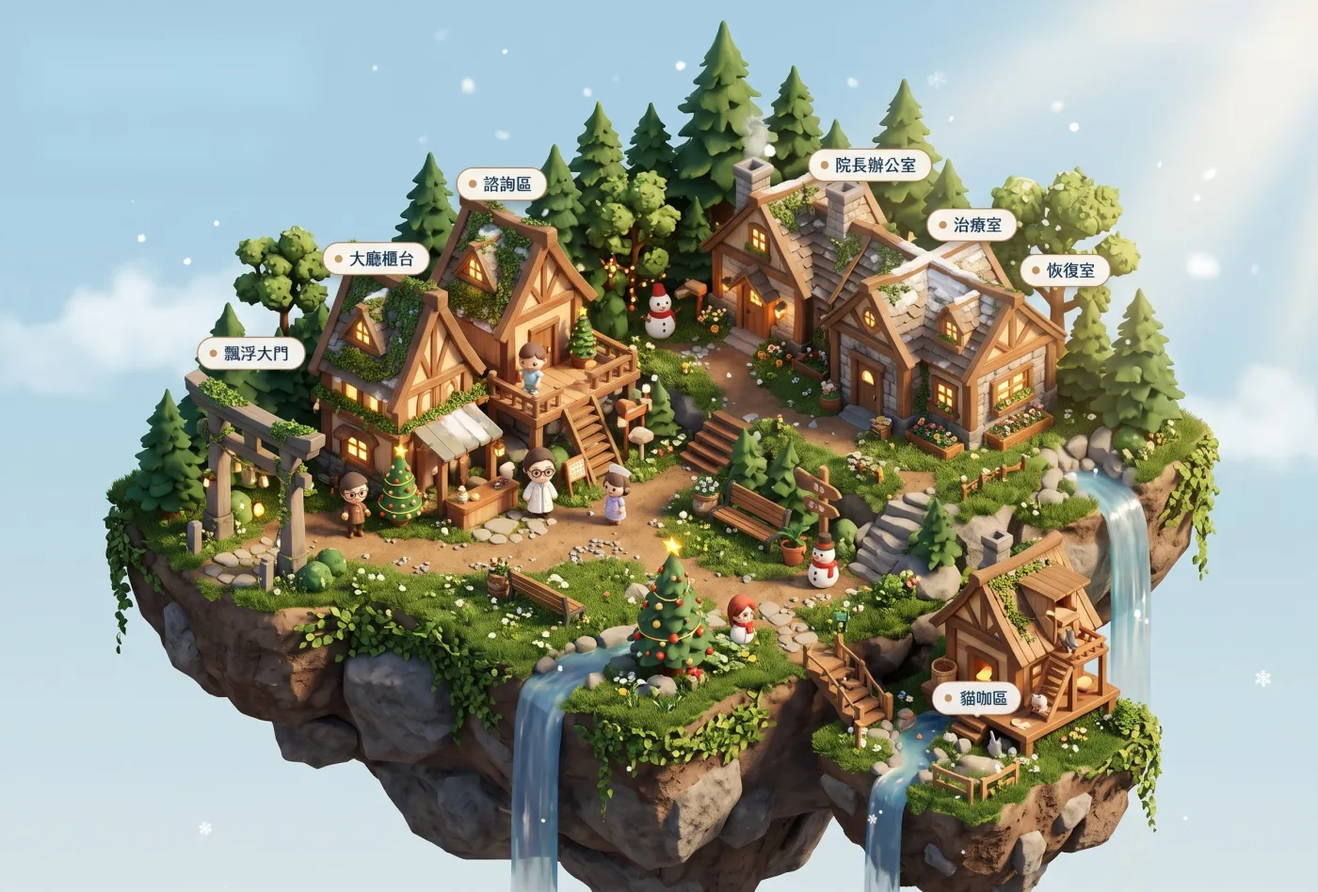
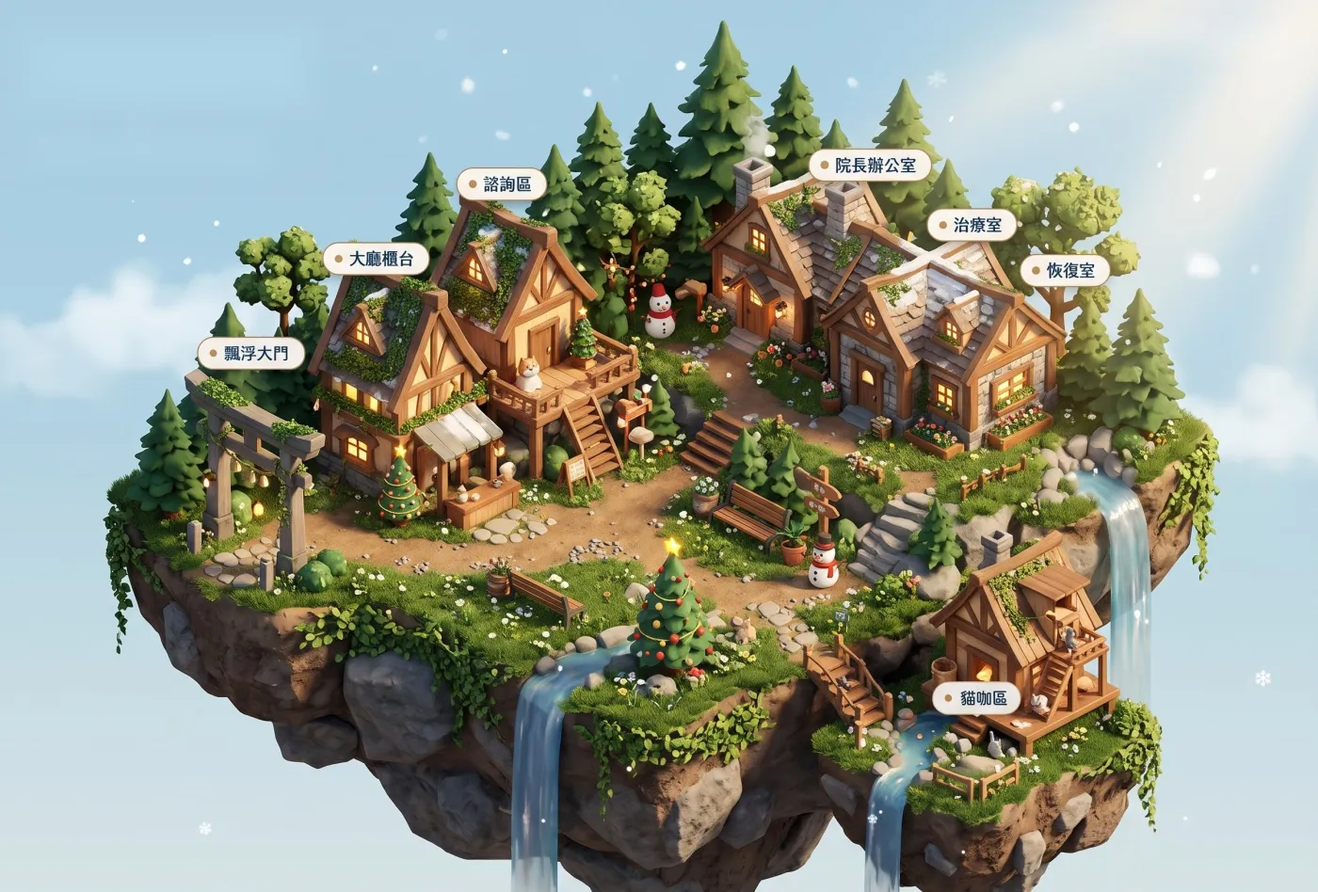
Forest island: people-free base image, walking islanders
Claude-Session: https://claude.ai/code/session_01JBjZjVyCLTEV66G3vMSPRi

diff --git a/public/island/forest/index.html b/public/island/forest/index.html
@@ -121,13 +121,13 @@ nav.chips.houses button{font-size:14px;padding:8px 14px}
 @media (prefers-reduced-motion:reduce){}
 </style></head><body>
 <header><a class="back" href="/island/">← 主島</a><button type="button" class="music" id="music" aria-pressed="false">♪ 森林音樂</button><div><h1>無痕美學島・森林版</h1><p class="sub">點小屋看看：IG、FB、衛教文章、咖啡屋和小測驗<br>安和路一段86號2樓・預約制</p></div></header>
-<div class="scroller" id="sc"><div class="stage"><img src="forest.webp" srcset="forest-1400.webp 1400w, forest.webp 2400w" sizes="(max-width:760px) 140vh, 1240px" alt="無痕美學島森林版插畫：漂浮在空中的森林小島，有木造小屋、瀑布和聖誕樹" width="2400" height="1626"><button type="button" class="hs tag cover" data-house="ig" style="left:28.50%;top:28.97%;min-width:8.40%;min-height:3.76%"><i></i>IG 小屋</button><button type="button" class="hs tag cover" data-house="fb" style="left:38.12%;top:20.48%;min-width:7.15%;min-height:3.76%"><i></i>FB 小屋</button><button type="button" class="hs tag" data-house="blog" style="left:57.50%;top:47.23%"><i></i>森林書屋</button><button type="button" class="hs tag cover" data-house="gate" style="left:19.00%;top:39.67%;min-width:8.40%;min-height:3.76%"><i></i>森林入口</button><button type="button" class="hs tag cover" data-house="coffee" style="left:66.00%;top:18.63%;min-width:10.20%;min-height:3.76%"><i></i>杜克勞咖啡屋</button><button type="button" class="hs tag cover" data-house="sun" style="left:73.75%;top:25.28%;min-width:7.40%;min-height:3.76%"><i></i>防曬花園</button><button type="button" class="hs tag cover" data-house="rest" style="left:80.75%;top:30.44%;min-width:7.90%;min-height:3.76%"><i></i>林間休息屋</button><button type="button" class="hs tag cover" data-house="animal" style="left:74.12%;top:78.41%;min-width:7.15%;min-height:3.76%"><i></i>狗狗小屋</button><button type="button" class="hs tag" data-house="water" style="left:43.50%;top:74.54%"><i></i>補水小站</button><button type="button" class="hs tag" data-house="quiz" style="left:50.00%;top:33.95%"><i></i>樹屋測驗</button><button type="button" class="npc" data-npc="laoxiang" aria-label="和木屋管家・老橡說說話" style="left:26.50%;top:55.50%"></button><button type="button" class="npc" data-npc="xiaosong" aria-label="和愛爬樹的小松說說話" style="left:40.25%;top:40.44%"></button><button type="button" class="npc" data-npc="ashan" aria-label="和樹醫生・阿杉說說話" style="left:40.75%;top:53.28%"></button><button type="button" class="npc" data-npc="lulu" aria-label="和照顧狗狗的露露說說話" style="left:46.75%;top:56.09%"></button><button type="button" class="npc" data-npc="meimei" aria-label="和愛堆雪人的莓莓說說話" style="left:56.25%;top:69.00%"></button><svg class="fx" viewBox="0 0 2400 1626" preserveAspectRatio="none" aria-hidden="true"><defs><clipPath id="cfl"><polygon points="960,1215 1095,1188 1062,1232 1022,1300 1024,1626 930,1626 936,1300"/></clipPath><clipPath id="cfr"><polygon points="1958,862 2062,852 2096,930 2098,1292 2020,1292 2017,960 1988,902"/></clipPath><clipPath id="cfs"><polygon points="1662,1298 1692,1310 1642,1420 1642,1626 1570,1626 1580,1440 1622,1358"/></clipPath><radialGradient id="mist"><stop offset="0" stop-color="#fff" stop-opacity=".75"/><stop offset="1" stop-color="#fff" stop-opacity="0"/></radialGradient></defs><g clip-path="url(#cfl)"><line class="st" x1="934" y1="1128" x2="934" y2="1626" stroke="#fff" stroke-opacity="0.24" stroke-width="2" stroke-dasharray="68 100" style="animation-duration:1.7s;animation-delay:-1.09s"/><line class="st" x1="942" y1="1128" x2="942" y2="1626" stroke="#fff" stroke-opacity="0.18" stroke-width="1" stroke-dasharray="42 100" style="animation-duration:1.4s;animation-delay:-0.52s"/><line class="st" x1="956" y1="1128" x2="956" y2="1626" stroke="#fff" stroke-opacity="0.18" stroke-width="5" stroke-dasharray="70 59" style="animation-duration:1.7s;animation-delay:-1.72s"/><line class="st" x1="969" y1="1128" x2="969" y2="1626" stroke="#fff" stroke-opacity="0.18" stroke-width="1" stroke-dasharray="67 45" style="animation-duration:1.7s;animation-delay:-1.55s"/><line class="st" x1="980" y1="1128" x2="980" y2="1626" stroke="#fff" stroke-opacity="0.30" stroke-width="1" stroke-dasharray="57 90" style="animation-duration:1.4s;animation-delay:-0.95s"/><line class="st" x1="994" y1="1128" x2="994" y2="1626" stroke="#fff" stroke-opacity="0.18" stroke-width="2" stroke-dasharray="61 67" style="animation-duration:1.4s;animation-delay:-0.19s"/><line class="st" x1="1005" y1="1128" x2="1005" y2="1626" stroke="#fff" stroke-opacity="0.30" stroke-width="5" stroke-dasharray="62 89" style="animation-duration:1.7s;animation-delay:-1.71s"/><line class="st" x1="1017" y1="1128" x2="1017" y2="1626" stroke="#fff" stroke-opacity="0.24" stroke-width="5" stroke-dasharray="31 75" style="animation-duration:1.7s;animation-delay:-0.46s"/><line class="st" x1="1026" y1="1128" x2="1026" y2="1626" stroke="#fff" stroke-opacity="0.13" stroke-width="3" stroke-dasharray="43 74" style="animation-duration:1.7s;animation-delay:-1.81s"/><line class="st" x1="1037" y1="1128" x2="1037" y2="1626" stroke="#fff" stroke-opacity="0.30" stroke-width="1" stroke-dasharray="35 84" style="animation-duration:1.1s;animation-delay:-0.96s"/><line class="st" x1="1045" y1="1128" x2="1045" y2="1626" stroke="#fff" stroke-opacity="0.30" stroke-width="5" stroke-dasharray="56 55" style="animation-duration:1.1s;animation-delay:-0.04s"/><line class="st" x1="1052" y1="1128" x2="1052" y2="1626" stroke="#fff" stroke-opacity="0.24" stroke-width="1" stroke-dasharray="65 75" style="animation-duration:1.4s;animation-delay:-1.44s"/><line class="st" x1="1062" y1="1128" x2="1062" y2="1626" stroke="#fff" stroke-opacity="0.13" stroke-width="1" stroke-dasharray="68 108" style="animation-duration:1.4s;animation-delay:-0.01s"/><line class="st" x1="1069" y1="1128" x2="1069" y2="1626" stroke="#fff" stroke-opacity="0.24" stroke-width="2" stroke-dasharray="39 45" style="animation-duration:1.4s;animation-delay:-0.58s"/><line class="st" x1="1081" y1="1128" x2="1081" y2="1626" stroke="#fff" stroke-opacity="0.30" stroke-width="3" stroke-dasharray="54 98" style="animation-duration:1.4s;animation-delay:-1.92s"/><line class="st" x1="1094" y1="1128" x2="1094" y2="1626" stroke="#fff" stroke-opacity="0.24" stroke-width="1" stroke-dasharray="57 70" style="animation-duration:1.7s;animation-delay:-1.95s"/></g><g clip-path="url(#cfr)"><line class="st" x1="1962" y1="792" x2="1962" y2="1292" stroke="#fff" stroke-opacity="0.24" stroke-width="5" stroke-dasharray="30 93" style="animation-duration:1.4s;animation-delay:-1.04s"/><line class="st" x1="1974" y1="792" x2="1974" y2="1292" stroke="#fff" stroke-opacity="0.18" stroke-width="1" stroke-dasharray="33 82" style="animation-duration:1.4s;animation-delay:-1.23s"/><line class="st" x1="1988" y1="792" x2="1988" y2="1292" stroke="#fff" stroke-opacity="0.24" stroke-width="3" stroke-dasharray="61 42" style="animation-duration:1.7s;animation-delay:-1.83s"/><line class="st" x1="1995" y1="792" x2="1995" y2="1292" stroke="#fff" stroke-opacity="0.30" stroke-width="1" stroke-dasharray="49 80" style="animation-duration:1.4s;animation-delay:-0.50s"/><line class="st" x1="2004" y1="792" x2="2004" y2="1292" stroke="#fff" stroke-opacity="0.24" stroke-width="3" stroke-dasharray="68 73" style="animation-duration:1.1s;animation-delay:-0.63s"/><line class="st" x1="2015" y1="792" x2="2015" y2="1292" stroke="#fff" stroke-opacity="0.13" stroke-width="5" stroke-dasharray="66 56" style="animation-duration:1.1s;animation-delay:-1.54s"/><line class="st" x1="2026" y1="792" x2="2026" y2="1292" stroke="#fff" stroke-opacity="0.18" stroke-width="2" stroke-dasharray="50 63" style="animation-duration:1.7s;animation-delay:-1.61s"/><line class="st" x1="2039" y1="792" x2="2039" y2="1292" stroke="#fff" stroke-opacity="0.24" stroke-width="1" stroke-dasharray="44 96" style="animation-duration:1.1s;animation-delay:-1.20s"/><line class="st" x1="2048" y1="792" x2="2048" y2="1292" stroke="#fff" stroke-opacity="0.18" stroke-width="1" stroke-dasharray="66 97" style="animation-duration:1.4s;animation-delay:-1.48s"/><line class="st" x1="2059" y1="792" x2="2059" y2="1292" stroke="#fff" stroke-opacity="0.18" stroke-width="2" stroke-dasharray="50 63" style="animation-duration:1.1s;animation-delay:-0.07s"/><line class="st" x1="2070" y1="792" x2="2070" y2="1292" stroke="#fff" stroke-opacity="0.24" stroke-width="3" stroke-dasharray="67 56" style="animation-duration:1.7s;animation-delay:-0.17s"/><line class="st" x1="2083" y1="792" x2="2083" y2="1292" stroke="#fff" stroke-opacity="0.24" stroke-width="3" stroke-dasharray="59 84" style="animation-duration:1.7s;animation-delay:-1.59s"/><line class="st" x1="2096" y1="792" x2="2096" y2="1292" stroke="#fff" stroke-opacity="0.13" stroke-width="3" stroke-dasharray="56 59" style="animation-duration:1.4s;animation-delay:-1.14s"/></g><g clip-path="url(#cfs)"><line class="st" x1="1574" y1="1238" x2="1574" y2="1626" stroke="#fff" stroke-opacity="0.30" stroke-width="1" stroke-dasharray="65 68" style="animation-duration:1.4s;animation-delay:-1.89s"/><line class="st" x1="1581" y1="1238" x2="1581" y2="1626" stroke="#fff" stroke-opacity="0.24" stroke-width="5" stroke-dasharray="64 83" style="animation-duration:1.7s;animation-delay:-1.50s"/><line class="st" x1="1591" y1="1238" x2="1591" y2="1626" stroke="#fff" stroke-opacity="0.13" stroke-width="1" stroke-dasharray="45 45" style="animation-duration:1.7s;animation-delay:-1.94s"/><line class="st" x1="1598" y1="1238" x2="1598" y2="1626" stroke="#fff" stroke-opacity="0.13" stroke-width="2" stroke-dasharray="60 55" style="animation-duration:1.4s;animation-delay:-1.15s"/><line class="st" x1="1607" y1="1238" x2="1607" y2="1626" stroke="#fff" stroke-opacity="0.30" stroke-width="3" stroke-dasharray="33 54" style="animation-duration:1.1s;animation-delay:-1.33s"/><line class="st" x1="1619" y1="1238" x2="1619" y2="1626" stroke="#fff" stroke-opacity="0.30" stroke-width="2" stroke-dasharray="33 85" style="animation-duration:1.4s;animation-delay:-1.94s"/><line class="st" x1="1629" y1="1238" x2="1629" y2="1626" stroke="#fff" stroke-opacity="0.13" stroke-width="2" stroke-dasharray="40 70" style="animation-duration:1.1s;animation-delay:-1.07s"/><line class="st" x1="1640" y1="1238" x2="1640" y2="1626" stroke="#fff" stroke-opacity="0.30" stroke-width="2" stroke-dasharray="33 74" style="animation-duration:1.1s;animation-delay:-0.98s"/><line class="st" x1="1650" y1="1238" x2="1650" y2="1626" stroke="#fff" stroke-opacity="0.30" stroke-width="3" stroke-dasharray="33 100" style="animation-duration:1.7s;animation-delay:-1.05s"/><line class="st" x1="1662" y1="1238" x2="1662" y2="1626" stroke="#fff" stroke-opacity="0.13" stroke-width="1" stroke-dasharray="37 46" style="animation-duration:1.1s;animation-delay:-1.55s"/><line class="st" x1="1670" y1="1238" x2="1670" y2="1626" stroke="#fff" stroke-opacity="0.13" stroke-width="5" stroke-dasharray="62 104" style="animation-duration:1.1s;animation-delay:-1.71s"/><line class="st" x1="1684" y1="1238" x2="1684" y2="1626" stroke="#fff" stroke-opacity="0.24" stroke-width="3" stroke-dasharray="54 89" style="animation-duration:1.1s;animation-delay:-0.63s"/></g><ellipse class="mist" cx="2058" cy="1296" rx="70" ry="22" fill="url(#mist)"/><ellipse class="mist" cx="1078" cy="1212" rx="46" ry="14" fill="url(#mist)" style="animation-delay:-1s"/><ellipse class="mist" cx="2008" cy="872" rx="44" ry="12" fill="url(#mist)" style="animation-delay:-.6s"/><g><g><g class="bfly"><g class="wl"><path d="M0,0 C-6,-14 -22,-16 -20,-4 C-19,4 -8,4 0,0Z" fill="#FFE48A" stroke="#F2B84B" stroke-width=".6" stroke-opacity=".7"/><path d="M0,1 C-5,8 -15,14 -14,6 C-13,2 -6,1 0,1Z" fill="#FFE48A" stroke="#F2B84B" stroke-width=".6" stroke-opacity=".7"/></g><g class="wr"><path d="M0,0 C6,-14 22,-16 20,-4 C19,4 8,4 0,0Z" fill="#FFE48A" stroke="#F2B84B" stroke-width=".6" stroke-opacity=".7"/><path d="M0,1 C5,8 15,14 14,6 C13,2 6,1 0,1Z" fill="#FFE48A" stroke="#F2B84B" stroke-width=".6" stroke-opacity=".7"/></g><ellipse rx="1.8" ry="7" fill="#5B4636"/></g></g><animateMotion dur="14s" repeatCount="indefinite" path="M560,1000 C700,860 900,960 1000,860 S1250,820 1180,980 S760,1120 560,1000Z" begin="-0.0s"/></g><g><g><g class="bfly"><g class="wl"><path d="M0,0 C-6,-14 -22,-16 -20,-4 C-19,4 -8,4 0,0Z" fill="#FFFFFF" stroke="#D9D2C4" stroke-width=".6" stroke-opacity=".7"/><path d="M0,1 C-5,8 -15,14 -14,6 C-13,2 -6,1 0,1Z" fill="#FFFFFF" stroke="#D9D2C4" stroke-width=".6" stroke-opacity=".7"/></g><g class="wr"><path d="M0,0 C6,-14 22,-16 20,-4 C19,4 8,4 0,0Z" fill="#FFFFFF" stroke="#D9D2C4" stroke-width=".6" stroke-opacity=".7"/><path d="M0,1 C5,8 15,14 14,6 C13,2 6,1 0,1Z" fill="#FFFFFF" stroke="#D9D2C4" stroke-width=".6" stroke-opacity=".7"/></g><ellipse rx="1.8" ry="7" fill="#5B4636"/></g></g><animateMotion dur="17s" repeatCount="indefinite" path="M1500,700 C1650,560 1900,640 1850,780 S1550,900 1500,700Z" begin="-2.3s"/></g><g><g><g class="bfly"><g class="wl"><path d="M0,0 C-6,-14 -22,-16 -20,-4 C-19,4 -8,4 0,0Z" fill="#BFE3FF" stroke="#7FB6E6" stroke-width=".6" stroke-opacity=".7"/><path d="M0,1 C-5,8 -15,14 -14,6 C-13,2 -6,1 0,1Z" fill="#BFE3FF" stroke="#7FB6E6" stroke-width=".6" stroke-opacity=".7"/></g><g class="wr"><path d="M0,0 C6,-14 22,-16 20,-4 C19,4 8,4 0,0Z" fill="#BFE3FF" stroke="#7FB6E6" stroke-width=".6" stroke-opacity=".7"/><path d="M0,1 C5,8 15,14 14,6 C13,2 6,1 0,1Z" fill="#BFE3FF" stroke="#7FB6E6" stroke-width=".6" stroke-opacity=".7"/></g><ellipse rx="1.8" ry="7" fill="#5B4636"/></g></g><animateMotion dur="20s" repeatCount="indefinite" path="M700,520 C820,420 980,470 950,600 S760,700 700,520Z" begin="-4.6s"/></g><g><g><g class="bfly"><g class="wl"><path d="M0,0 C-6,-14 -22,-16 -20,-4 C-19,4 -8,4 0,0Z" fill="#FFC2D4" stroke="#E88BA8" stroke-width=".6" stroke-opacity=".7"/><path d="M0,1 C-5,8 -15,14 -14,6 C-13,2 -6,1 0,1Z" fill="#FFC2D4" stroke="#E88BA8" stroke-width=".6" stroke-opacity=".7"/></g><g class="wr"><path d="M0,0 C6,-14 22,-16 20,-4 C19,4 8,4 0,0Z" fill="#FFC2D4" stroke="#E88BA8" stroke-width=".6" stroke-opacity=".7"/><path d="M0,1 C5,8 15,14 14,6 C13,2 6,1 0,1Z" fill="#FFC2D4" stroke="#E88BA8" stroke-width=".6" stroke-opacity=".7"/></g><ellipse rx="1.8" ry="7" fill="#5B4636"/></g></g><animateMotion dur="23s" repeatCount="indefinite" path="M1250,1060 C1400,980 1560,1040 1520,1160 S1300,1200 1250,1060Z" begin="-6.9s"/></g></svg><svg class="fx dogs" id="dogs" viewBox="0 0 2400 1626" preserveAspectRatio="none" aria-hidden="false"></svg><div class="bubble" id="bub" hidden><b id="bub-n"></b><span id="bub-t"></span></div></div></div>
-<p class="tip">小屋的牌子和島上的人都可以點</p>
+<div class="scroller" id="sc"><div class="stage"><img src="forest.webp?v=2" srcset="forest-1400.webp?v=2 1400w, forest.webp?v=2 2400w" sizes="(max-width:760px) 140vh, 1240px" alt="無痕美學島森林版插畫：漂浮在空中的森林小島，有木造小屋、瀑布和聖誕樹" width="2400" height="1626"><button type="button" class="hs tag cover" data-house="ig" style="left:28.50%;top:28.97%;min-width:8.40%;min-height:3.76%"><i></i>IG 小屋</button><button type="button" class="hs tag cover" data-house="fb" style="left:38.12%;top:20.48%;min-width:7.15%;min-height:3.76%"><i></i>FB 小屋</button><button type="button" class="hs tag" data-house="blog" style="left:57.50%;top:47.23%"><i></i>森林書屋</button><button type="button" class="hs tag cover" data-house="gate" style="left:19.00%;top:39.67%;min-width:8.40%;min-height:3.76%"><i></i>森林入口</button><button type="button" class="hs tag cover" data-house="coffee" style="left:66.00%;top:18.63%;min-width:10.20%;min-height:3.76%"><i></i>杜克勞咖啡屋</button><button type="button" class="hs tag cover" data-house="sun" style="left:73.75%;top:25.28%;min-width:7.40%;min-height:3.76%"><i></i>防曬花園</button><button type="button" class="hs tag cover" data-house="rest" style="left:80.75%;top:30.44%;min-width:7.90%;min-height:3.76%"><i></i>林間休息屋</button><button type="button" class="hs tag cover" data-house="animal" style="left:74.12%;top:78.41%;min-width:7.15%;min-height:3.76%"><i></i>狗狗小屋</button><button type="button" class="hs tag" data-house="water" style="left:43.50%;top:74.54%"><i></i>補水小站</button><button type="button" class="hs tag" data-house="quiz" style="left:50.00%;top:33.95%"><i></i>樹屋測驗</button><svg class="fx" viewBox="0 0 2400 1626" preserveAspectRatio="none" aria-hidden="true"><defs><clipPath id="cfl"><polygon points="960,1215 1095,1188 1062,1232 1022,1300 1024,1626 930,1626 936,1300"/></clipPath><clipPath id="cfr"><polygon points="1958,862 2062,852 2096,930 2098,1292 2020,1292 2017,960 1988,902"/></clipPath><clipPath id="cfs"><polygon points="1662,1298 1692,1310 1642,1420 1642,1626 1570,1626 1580,1440 1622,1358"/></clipPath><radialGradient id="mist"><stop offset="0" stop-color="#fff" stop-opacity=".75"/><stop offset="1" stop-color="#fff" stop-opacity="0"/></radialGradient></defs><g clip-path="url(#cfl)"><line class="st" x1="934" y1="1128" x2="934" y2="1626" stroke="#fff" stroke-opacity="0.24" stroke-width="2" stroke-dasharray="68 100" style="animation-duration:1.7s;animation-delay:-1.09s"/><line class="st" x1="942" y1="1128" x2="942" y2="1626" stroke="#fff" stroke-opacity="0.18" stroke-width="1" stroke-dasharray="42 100" style="animation-duration:1.4s;animation-delay:-0.52s"/><line class="st" x1="956" y1="1128" x2="956" y2="1626" stroke="#fff" stroke-opacity="0.18" stroke-width="5" stroke-dasharray="70 59" style="animation-duration:1.7s;animation-delay:-1.72s"/><line class="st" x1="969" y1="1128" x2="969" y2="1626" stroke="#fff" stroke-opacity="0.18" stroke-width="1" stroke-dasharray="67 45" style="animation-duration:1.7s;animation-delay:-1.55s"/><line class="st" x1="980" y1="1128" x2="980" y2="1626" stroke="#fff" stroke-opacity="0.30" stroke-width="1" stroke-dasharray="57 90" style="animation-duration:1.4s;animation-delay:-0.95s"/><line class="st" x1="994" y1="1128" x2="994" y2="1626" stroke="#fff" stroke-opacity="0.18" stroke-width="2" stroke-dasharray="61 67" style="animation-duration:1.4s;animation-delay:-0.19s"/><line class="st" x1="1005" y1="1128" x2="1005" y2="1626" stroke="#fff" stroke-opacity="0.30" stroke-width="5" stroke-dasharray="62 89" style="animation-duration:1.7s;animation-delay:-1.71s"/><line class="st" x1="1017" y1="1128" x2="1017" y2="1626" stroke="#fff" stroke-opacity="0.24" stroke-width="5" stroke-dasharray="31 75" style="animation-duration:1.7s;animation-delay:-0.46s"/><line class="st" x1="1026" y1="1128" x2="1026" y2="1626" stroke="#fff" stroke-opacity="0.13" stroke-width="3" stroke-dasharray="43 74" style="animation-duration:1.7s;animation-delay:-1.81s"/><line class="st" x1="1037" y1="1128" x2="1037" y2="1626" stroke="#fff" stroke-opacity="0.30" stroke-width="1" stroke-dasharray="35 84" style="animation-duration:1.1s;animation-delay:-0.96s"/><line class="st" x1="1045" y1="1128" x2="1045" y2="1626" stroke="#fff" stroke-opacity="0.30" stroke-width="5" stroke-dasharray="56 55" style="animation-duration:1.1s;animation-delay:-0.04s"/><line class="st" x1="1052" y1="1128" x2="1052" y2="1626" stroke="#fff" stroke-opacity="0.24" stroke-width="1" stroke-dasharray="65 75" style="animation-duration:1.4s;animation-delay:-1.44s"/><line class="st" x1="1062" y1="1128" x2="1062" y2="1626" stroke="#fff" stroke-opacity="0.13" stroke-width="1" stroke-dasharray="68 108" style="animation-duration:1.4s;animation-delay:-0.01s"/><line class="st" x1="1069" y1="1128" x2="1069" y2="1626" stroke="#fff" stroke-opacity="0.24" stroke-width="2" stroke-dasharray="39 45" style="animation-duration:1.4s;animation-delay:-0.58s"/><line class="st" x1="1081" y1="1128" x2="1081" y2="1626" stroke="#fff" stroke-opacity="0.30" stroke-width="3" stroke-dasharray="54 98" style="animation-duration:1.4s;animation-delay:-1.92s"/><line class="st" x1="1094" y1="1128" x2="1094" y2="1626" stroke="#fff" stroke-opacity="0.24" stroke-width="1" stroke-dasharray="57 70" style="animation-duration:1.7s;animation-delay:-1.95s"/></g><g clip-path="url(#cfr)"><line class="st" x1="1962" y1="792" x2="1962" y2="1292" stroke="#fff" stroke-opacity="0.24" stroke-width="5" stroke-dasharray="30 93" style="animation-duration:1.4s;animation-delay:-1.04s"/><line class="st" x1="1974" y1="792" x2="1974" y2="1292" stroke="#fff" stroke-opacity="0.18" stroke-width="1" stroke-dasharray="33 82" style="animation-duration:1.4s;animation-delay:-1.23s"/><line class="st" x1="1988" y1="792" x2="1988" y2="1292" stroke="#fff" stroke-opacity="0.24" stroke-width="3" stroke-dasharray="61 42" style="animation-duration:1.7s;animation-delay:-1.83s"/><line class="st" x1="1995" y1="792" x2="1995" y2="1292" stroke="#fff" stroke-opacity="0.30" stroke-width="1" stroke-dasharray="49 80" style="animation-duration:1.4s;animation-delay:-0.50s"/><line class="st" x1="2004" y1="792" x2="2004" y2="1292" stroke="#fff" stroke-opacity="0.24" stroke-width="3" stroke-dasharray="68 73" style="animation-duration:1.1s;animation-delay:-0.63s"/><line class="st" x1="2015" y1="792" x2="2015" y2="1292" stroke="#fff" stroke-opacity="0.13" stroke-width="5" stroke-dasharray="66 56" style="animation-duration:1.1s;animation-delay:-1.54s"/><line class="st" x1="2026" y1="792" x2="2026" y2="1292" stroke="#fff" stroke-opacity="0.18" stroke-width="2" stroke-dasharray="50 63" style="animation-duration:1.7s;animation-delay:-1.61s"/><line class="st" x1="2039" y1="792" x2="2039" y2="1292" stroke="#fff" stroke-opacity="0.24" stroke-width="1" stroke-dasharray="44 96" style="animation-duration:1.1s;animation-delay:-1.20s"/><line class="st" x1="2048" y1="792" x2="2048" y2="1292" stroke="#fff" stroke-opacity="0.18" stroke-width="1" stroke-dasharray="66 97" style="animation-duration:1.4s;animation-delay:-1.48s"/><line class="st" x1="2059" y1="792" x2="2059" y2="1292" stroke="#fff" stroke-opacity="0.18" stroke-width="2" stroke-dasharray="50 63" style="animation-duration:1.1s;animation-delay:-0.07s"/><line class="st" x1="2070" y1="792" x2="2070" y2="1292" stroke="#fff" stroke-opacity="0.24" stroke-width="3" stroke-dasharray="67 56" style="animation-duration:1.7s;animation-delay:-0.17s"/><line class="st" x1="2083" y1="792" x2="2083" y2="1292" stroke="#fff" stroke-opacity="0.24" stroke-width="3" stroke-dasharray="59 84" style="animation-duration:1.7s;animation-delay:-1.59s"/><line class="st" x1="2096" y1="792" x2="2096" y2="1292" stroke="#fff" stroke-opacity="0.13" stroke-width="3" stroke-dasharray="56 59" style="animation-duration:1.4s;animation-delay:-1.14s"/></g><g clip-path="url(#cfs)"><line class="st" x1="1574" y1="1238" x2="1574" y2="1626" stroke="#fff" stroke-opacity="0.30" stroke-width="1" stroke-dasharray="65 68" style="animation-duration:1.4s;animation-delay:-1.89s"/><line class="st" x1="1581" y1="1238" x2="1581" y2="1626" stroke="#fff" stroke-opacity="0.24" stroke-width="5" stroke-dasharray="64 83" style="animation-duration:1.7s;animation-delay:-1.50s"/><line class="st" x1="1591" y1="1238" x2="1591" y2="1626" stroke="#fff" stroke-opacity="0.13" stroke-width="1" stroke-dasharray="45 45" style="animation-duration:1.7s;animation-delay:-1.94s"/><line class="st" x1="1598" y1="1238" x2="1598" y2="1626" stroke="#fff" stroke-opacity="0.13" stroke-width="2" stroke-dasharray="60 55" style="animation-duration:1.4s;animation-delay:-1.15s"/><line class="st" x1="1607" y1="1238" x2="1607" y2="1626" stroke="#fff" stroke-opacity="0.30" stroke-width="3" stroke-dasharray="33 54" style="animation-duration:1.1s;animation-delay:-1.33s"/><line class="st" x1="1619" y1="1238" x2="1619" y2="1626" stroke="#fff" stroke-opacity="0.30" stroke-width="2" stroke-dasharray="33 85" style="animation-duration:1.4s;animation-delay:-1.94s"/><line class="st" x1="1629" y1="1238" x2="1629" y2="1626" stroke="#fff" stroke-opacity="0.13" stroke-width="2" stroke-dasharray="40 70" style="animation-duration:1.1s;animation-delay:-1.07s"/><line class="st" x1="1640" y1="1238" x2="1640" y2="1626" stroke="#fff" stroke-opacity="0.30" stroke-width="2" stroke-dasharray="33 74" style="animation-duration:1.1s;animation-delay:-0.98s"/><line class="st" x1="1650" y1="1238" x2="1650" y2="1626" stroke="#fff" stroke-opacity="0.30" stroke-width="3" stroke-dasharray="33 100" style="animation-duration:1.7s;animation-delay:-1.05s"/><line class="st" x1="1662" y1="1238" x2="1662" y2="1626" stroke="#fff" stroke-opacity="0.13" stroke-width="1" stroke-dasharray="37 46" style="animation-duration:1.1s;animation-delay:-1.55s"/><line class="st" x1="1670" y1="1238" x2="1670" y2="1626" stroke="#fff" stroke-opacity="0.13" stroke-width="5" stroke-dasharray="62 104" style="animation-duration:1.1s;animation-delay:-1.71s"/><line class="st" x1="1684" y1="1238" x2="1684" y2="1626" stroke="#fff" stroke-opacity="0.24" stroke-width="3" stroke-dasharray="54 89" style="animation-duration:1.1s;animation-delay:-0.63s"/></g><ellipse class="mist" cx="2058" cy="1296" rx="70" ry="22" fill="url(#mist)"/><ellipse class="mist" cx="1078" cy="1212" rx="46" ry="14" fill="url(#mist)" style="animation-delay:-1s"/><ellipse class="mist" cx="2008" cy="872" rx="44" ry="12" fill="url(#mist)" style="animation-delay:-.6s"/><g><g><g class="bfly"><g class="wl"><path d="M0,0 C-6,-14 -22,-16 -20,-4 C-19,4 -8,4 0,0Z" fill="#FFE48A" stroke="#F2B84B" stroke-width=".6" stroke-opacity=".7"/><path d="M0,1 C-5,8 -15,14 -14,6 C-13,2 -6,1 0,1Z" fill="#FFE48A" stroke="#F2B84B" stroke-width=".6" stroke-opacity=".7"/></g><g class="wr"><path d="M0,0 C6,-14 22,-16 20,-4 C19,4 8,4 0,0Z" fill="#FFE48A" stroke="#F2B84B" stroke-width=".6" stroke-opacity=".7"/><path d="M0,1 C5,8 15,14 14,6 C13,2 6,1 0,1Z" fill="#FFE48A" stroke="#F2B84B" stroke-width=".6" stroke-opacity=".7"/></g><ellipse rx="1.8" ry="7" fill="#5B4636"/></g></g><animateMotion dur="14s" repeatCount="indefinite" path="M560,1000 C700,860 900,960 1000,860 S1250,820 1180,980 S760,1120 560,1000Z" begin="-0.0s"/></g><g><g><g class="bfly"><g class="wl"><path d="M0,0 C-6,-14 -22,-16 -20,-4 C-19,4 -8,4 0,0Z" fill="#FFFFFF" stroke="#D9D2C4" stroke-width=".6" stroke-opacity=".7"/><path d="M0,1 C-5,8 -15,14 -14,6 C-13,2 -6,1 0,1Z" fill="#FFFFFF" stroke="#D9D2C4" stroke-width=".6" stroke-opacity=".7"/></g><g class="wr"><path d="M0,0 C6,-14 22,-16 20,-4 C19,4 8,4 0,0Z" fill="#FFFFFF" stroke="#D9D2C4" stroke-width=".6" stroke-opacity=".7"/><path d="M0,1 C5,8 15,14 14,6 C13,2 6,1 0,1Z" fill="#FFFFFF" stroke="#D9D2C4" stroke-width=".6" stroke-opacity=".7"/></g><ellipse rx="1.8" ry="7" fill="#5B4636"/></g></g><animateMotion dur="17s" repeatCount="indefinite" path="M1500,700 C1650,560 1900,640 1850,780 S1550,900 1500,700Z" begin="-2.3s"/></g><g><g><g class="bfly"><g class="wl"><path d="M0,0 C-6,-14 -22,-16 -20,-4 C-19,4 -8,4 0,0Z" fill="#BFE3FF" stroke="#7FB6E6" stroke-width=".6" stroke-opacity=".7"/><path d="M0,1 C-5,8 -15,14 -14,6 C-13,2 -6,1 0,1Z" fill="#BFE3FF" stroke="#7FB6E6" stroke-width=".6" stroke-opacity=".7"/></g><g class="wr"><path d="M0,0 C6,-14 22,-16 20,-4 C19,4 8,4 0,0Z" fill="#BFE3FF" stroke="#7FB6E6" stroke-width=".6" stroke-opacity=".7"/><path d="M0,1 C5,8 15,14 14,6 C13,2 6,1 0,1Z" fill="#BFE3FF" stroke="#7FB6E6" stroke-width=".6" stroke-opacity=".7"/></g><ellipse rx="1.8" ry="7" fill="#5B4636"/></g></g><animateMotion dur="20s" repeatCount="indefinite" path="M700,520 C820,420 980,470 950,600 S760,700 700,520Z" begin="-4.6s"/></g><g><g><g class="bfly"><g class="wl"><path d="M0,0 C-6,-14 -22,-16 -20,-4 C-19,4 -8,4 0,0Z" fill="#FFC2D4" stroke="#E88BA8" stroke-width=".6" stroke-opacity=".7"/><path d="M0,1 C-5,8 -15,14 -14,6 C-13,2 -6,1 0,1Z" fill="#FFC2D4" stroke="#E88BA8" stroke-width=".6" stroke-opacity=".7"/></g><g class="wr"><path d="M0,0 C6,-14 22,-16 20,-4 C19,4 8,4 0,0Z" fill="#FFC2D4" stroke="#E88BA8" stroke-width=".6" stroke-opacity=".7"/><path d="M0,1 C5,8 15,14 14,6 C13,2 6,1 0,1Z" fill="#FFC2D4" stroke="#E88BA8" stroke-width=".6" stroke-opacity=".7"/></g><ellipse rx="1.8" ry="7" fill="#5B4636"/></g></g><animateMotion dur="23s" repeatCount="indefinite" path="M1250,1060 C1400,980 1560,1040 1520,1160 S1300,1200 1250,1060Z" begin="-6.9s"/></g></svg><svg class="fx dogs" id="dogs" viewBox="0 0 2400 1626" preserveAspectRatio="none" aria-hidden="false"></svg><div class="bubble" id="bub" hidden><b id="bub-n"></b><span id="bub-t"></span></div></div></div>
+<p class="tip">小屋的牌子、走來走去的島民和狗狗都可以點</p>
 <section class="list-wrap"><h2 class="sec">森林小屋</h2><div class="cards"><button type="button" class="card game" onclick="openTetris()"><b>狗狗防曬大作戰</b><small>小遊戲・有排行榜</small></button><button type="button" class="card" data-house="gate"><b>森林入口</b><small>怎麼逛・交通</small></button><button type="button" class="card" data-house="ig"><b>IG 小屋</b><small>追蹤 IG</small></button><button type="button" class="card" data-house="fb"><b>FB 小屋</b><small>追蹤粉專</small></button><button type="button" class="card" data-house="blog"><b>森林書屋</b><small>最新衛教</small></button><button type="button" class="card" data-house="coffee"><b>杜克勞咖啡屋</b><small>拿鐵・美式</small></button><button type="button" class="card" data-house="sun"><b>防曬花園</b><small>日常防曬</small></button><button type="button" class="card" data-house="rest"><b>林間休息屋</b><small>療程後照顧</small></button><button type="button" class="card" data-house="water"><b>補水小站</b><small>今天喝水了嗎</small></button><button type="button" class="card" data-house="quiz"><b>樹屋測驗</b><small>三題小測驗</small></button><button type="button" class="card" data-house="animal"><b>狗狗小屋</b><small>森林的狗狗</small></button></div><p class="badges" id="badges"></p></section><p class="to-main"><a href="/island/">回主島逛八個診所空間 →</a></p>
 <div class="sheet-bg" id="sheetbg" hidden></div><section class="sheet" id="sheet" hidden role="dialog" aria-modal="true" aria-labelledby="sh-t"><button type="button" class="sh-x" id="shx" aria-label="關閉">×</button><p class="sh-k" id="sh-k"></p><h2 id="sh-t"></h2><div id="sh-b"></div></section><p class="legal">本站為衛教資訊，所有療程需經醫師面診評估，效果因個人膚況而異。無痕美學診所｜台北市大安區安和路一段86號2樓<br>© 2026 無痕美學診所 版權所有，翻印必究。未經書面授權，請勿複製、轉載或改作本站內容與設計。</p>
 <script>
 document.querySelectorAll('[data-room]').forEach(a=>a.addEventListener('click',()=>{try{gtag('event','island_forest_click',{room:a.dataset.room})}catch(e){}}));
-const NPC={"laoxiang": {"name": "木屋管家・老橡", "lines": ["歡迎來森林這一邊！房間都一樣，只是換成了木屋。", "想進哪一間，點屋頂上的牌子就好。", "走累了，長椅隨便坐，不用客氣。"]}, "xiaosong": {"name": "愛爬樹的小松", "lines": ["我在陽台上可以看到整座島喔！", "貓咖區在瀑布旁邊，那裡的貓最愛曬太陽。", "下雪的時候，屋頂會變得白白的。"]}, "ashan": {"name": "樹醫生・阿杉", "lines": ["我是樹醫生，專門幫森林裡的樹看診。", "樹皮曬太久也會乾，人也一樣，出門記得防曬。", "不過皮膚的事，還是要找診所的醫師當面看喔。"]}, "lulu": {"name": "照顧狗狗的露露", "lines": ["我負責照顧森林裡的狗狗。", "狗狗小屋就在瀑布旁邊，牠們最愛玩水了。", "渴了就到瀑布邊歇一下，記得多喝水。"]}, "meimei": {"name": "愛堆雪人的莓莓", "lines": ["我在跟聖誕樹拍照！", "那兩個雪人都是我堆的，帥不帥？", "聖誕節快到了，記得跟重要的人說聲謝謝。"]}},idx={},bub=document.getElementById('bub');let bt;
+const NPC={"xiaoxiang": {"name": "森林嚮導・小橡", "lines": ["歡迎來森林這一邊！每間小屋的牌子都可以點。", "IG 小屋和 FB 小屋，可以看到診所最近在忙什麼。", "樹屋測驗只要三題，看看你是哪一種樹。"]}, "lulu": {"name": "森林護理師・露露", "lines": ["我是森林護理師露露，負責提醒大家照顧自己。", "出門前記得擦防曬，流汗之後要補擦喔。", "皮膚有狀況的話，還是要找醫師當面看。"]}, "ashan": {"name": "愛散步的阿杉", "lines": ["我每天都帶柴柴和小白出來散步。", "散完步去杜克勞咖啡屋喝杯拿鐵，剛剛好。", "狗狗小屋就在瀑布旁邊，牠們最愛玩水。"]}, "meimei": {"name": "愛堆雪人的莓莓", "lines": ["那兩個雪人都是我堆的，帥不帥？", "補水小站可以記錄今天喝了幾杯水喔。", "聖誕節快到了，記得跟重要的人說聲謝謝。"]}},idx={},bub=document.getElementById('bub');let bt;
 document.querySelectorAll('.npc').forEach(b=>b.addEventListener('click',e=>{e.stopPropagation();const k=b.dataset.npc,n=NPC[k];idx[k]=((idx[k]??-1)+1)%n.lines.length;
  document.getElementById('bub-n').textContent=n.name;document.getElementById('bub-t').textContent=n.lines[idx[k]];
  bub.style.top=`calc(${b.style.top} - 5.5%)`;bub.hidden=false;
@@ -137,18 +137,18 @@ document.querySelectorAll('.npc').forEach(b=>b.addEventListener('click',e=>{e.st
 document.addEventListener('click',()=>bub.hidden=true);
 
 const HOUSES={
- ig:{k:'IG 小屋',t:'在 IG 跟我們見面',who:'愛爬樹的小松',say:'我每天都會去 IG 小屋看看有沒有新照片！',body:'<p>療程前後的小知識、診所日常、店貓的樣子，都放在 IG。</p>',go:['https://www.instagram.com/wuhen_clinic','ig','到 IG 追蹤 @wuhen_clinic']},
- fb:{k:'FB 小屋',t:'在 FB 粉專聊聊',who:'木屋管家・老橡',say:'有什麼想問的，粉專留言也找得到我們。',body:'<p>衛教文章、診所公告和活動資訊，會先放在 FB 粉專。</p>',go:['https://www.facebook.com/share/1BKkoKfUPg/','fb','到 FB 粉專按讚追蹤']},
- blog:{k:'森林書屋',t:'最新衛教文章',who:'樹醫生・阿杉',say:'書架上的書會一直換新，有空就來翻翻。',body:'<ul class="posts" id="posts"><li><small>書架整理中…</small></li></ul>',go:['https://blog.wuhenclinic.tw/blog/','blog','逛整座書屋（健康衛教部落格）']}};
+ ig:{k:'IG 小屋',t:'在 IG 跟我們見面',who:'森林嚮導・小橡',say:'我每天都會去 IG 小屋看看有沒有新照片！',body:'<p>療程前後的小知識、診所日常、店貓的樣子，都放在 IG。</p>',go:['https://www.instagram.com/wuhen_clinic','ig','到 IG 追蹤 @wuhen_clinic']},
+ fb:{k:'FB 小屋',t:'在 FB 粉專聊聊',who:'森林嚮導・小橡',say:'有什麼想問的，粉專留言也找得到我們。',body:'<p>衛教文章、診所公告和活動資訊，會先放在 FB 粉專。</p>',go:['https://www.facebook.com/share/1BKkoKfUPg/','fb','到 FB 粉專按讚追蹤']},
+ blog:{k:'森林書屋',t:'最新衛教文章',who:'森林護理師・露露',say:'書架上的書會一直換新，有空就來翻翻。',body:'<ul class="posts" id="posts"><li><small>書架整理中…</small></li></ul>',go:['https://blog.wuhenclinic.tw/blog/','blog','逛整座書屋（健康衛教部落格）']}};
 
 Object.assign(HOUSES,{
- gate:{k:'森林入口',t:'第一次來森林？',who:'木屋管家・老橡',say:'每間小屋的牌子都可以點，慢慢逛，不趕時間。',body:`<p>這是無痕美學島的森林版。小屋裡有診所的 IG、FB、衛教文章，也有咖啡屋、防曬花園和補水小站。逛累了，可以回主島看看真正的診所空間。</p><p><strong>來診所：</strong>安和路一段86號2樓，預約制。捷運信義安和站 1 號出口步行 3–5 分鐘（7-11 轉角）。開車可從文昌街205號轉進，中信銀行大樓後方有地下停車場，對面也有平面停車場。</p>`,go:['https://lin.ee/QTZzv7U','line','LINE 預約諮詢']},
- coffee:{k:'杜克勞咖啡屋',t:'無痕美學選用杜克勞咖啡',who:'樹醫生・阿杉',say:'來看診前先喝杯咖啡，我都點熱拿鐵。',body:`<p>診所裡的咖啡豆，來自詹老闆的杜克勞咖啡。</p><p>來診所時可以點<strong>拿鐵</strong>或<strong>美式</strong>，冰的熱的都可以，跟櫃台說一聲就好。</p><p>想認識詹老闆，可以回主島的咖啡角落找他聊聊。</p>`,go:['/island/','line2','回主島找杜克勞・詹']},
- sun:{k:'防曬花園',t:'樹醫生的日常防曬筆記',who:'樹醫生・阿杉',say:'花園裡的花也怕曬過頭，所以我會幫它們搭小陽傘。',body:`<p>日常防曬可以從這幾件小事開始：</p><ul class="list"><li>出門前 15–30 分鐘擦防曬，量要夠</li><li>流汗、擦汗或長時間在戶外，記得補擦</li><li>陰天也有紫外線，帽子、陽傘、太陽眼鏡一起用</li><li>保濕跟防曬一樣重要，臉乾的時候先補保濕</li></ul><p class="note">做完療程後的防曬和保養方式，請依照醫師給你的術後說明。</p>`,go:['https://blog.wuhenclinic.tw/blog/','blog2','看更多衛教文章']},
- rest:{k:'林間休息屋',t:'回家後怎麼照顧',who:'照顧狗狗的露露',say:'休息屋的椅子很軟，坐一下再走吧。',body:`<p>做完療程回家，最常被問的是：什麼時候可以洗臉、化妝、運動？每個療程不一樣，醫師會依你的狀況說明。</p><p>森林書屋有整理好的術後照顧文章，主島的恢復室也有更完整的說明。</p><p class="note">有任何不舒服，直接打診所電話 02-2755-5673。</p>`,go:['/island/#recovery','line2','到主島恢復室看看']},
- animal:{k:'狗狗小屋',t:'森林裡的狗狗',who:'照顧狗狗的露露',say:'牠們聽到腳步聲就會跑來門口，尾巴搖不停。',body:`<p>主島有貓店員，森林這邊則是狗狗的地盤。狗狗小屋住著露露照顧的幾隻狗狗，最喜歡在瀑布邊玩水，玩累了就趴在小屋門口曬太陽。</p><p>想看菀玲醫師的店貓，主島的貓咖區有四隻貓店員在等你。</p>`,go:['/island/#cats','line2','到主島貓咖區看貓']},
+ gate:{k:'森林入口',t:'第一次來森林？',who:'森林嚮導・小橡',say:'每間小屋的牌子都可以點，慢慢逛，不趕時間。',body:`<p>這是無痕美學島的森林版。小屋裡有診所的 IG、FB、衛教文章，也有咖啡屋、防曬花園和補水小站。逛累了，可以回主島看看真正的診所空間。</p><p><strong>來診所：</strong>安和路一段86號2樓，預約制。捷運信義安和站 1 號出口步行 3–5 分鐘（7-11 轉角）。開車可從文昌街205號轉進，中信銀行大樓後方有地下停車場，對面也有平面停車場。</p>`,go:['https://lin.ee/QTZzv7U','line','LINE 預約諮詢']},
+ coffee:{k:'杜克勞咖啡屋',t:'無痕美學選用杜克勞咖啡',who:'愛散步的阿杉',say:'帶狗狗散完步，來這裡喝杯熱拿鐵剛剛好。',body:`<p>診所裡的咖啡豆，來自詹老闆的杜克勞咖啡。</p><p>來診所時可以點<strong>拿鐵</strong>或<strong>美式</strong>，冰的熱的都可以，跟櫃台說一聲就好。</p><p>想認識詹老闆，可以回主島的咖啡角落找他聊聊。</p>`,go:['/island/','line2','回主島找杜克勞・詹']},
+ sun:{k:'防曬花園',t:'露露的日常防曬筆記',who:'森林護理師・露露',say:'花園裡的花也怕曬過頭，我幫它們搭了小陽傘。',body:`<p>日常防曬可以從這幾件小事開始：</p><ul class="list"><li>出門前 15–30 分鐘擦防曬，量要夠</li><li>流汗、擦汗或長時間在戶外，記得補擦</li><li>陰天也有紫外線，帽子、陽傘、太陽眼鏡一起用</li><li>保濕跟防曬一樣重要，臉乾的時候先補保濕</li></ul><p class="note">做完療程後的防曬和保養方式，請依照醫師給你的術後說明。</p>`,go:['https://blog.wuhenclinic.tw/blog/','blog2','看更多衛教文章']},
+ rest:{k:'林間休息屋',t:'回家後怎麼照顧',who:'森林護理師・露露',say:'休息屋的椅子很軟，坐一下再走吧。',body:`<p>做完療程回家，最常被問的是：什麼時候可以洗臉、化妝、運動？每個療程不一樣，醫師會依你的狀況說明。</p><p>森林書屋有整理好的術後照顧文章，主島的恢復室也有更完整的說明。</p><p class="note">有任何不舒服，直接打診所電話 02-2755-5673。</p>`,go:['/island/#recovery','line2','到主島恢復室看看']},
+ animal:{k:'狗狗小屋',t:'森林裡的狗狗',who:'愛散步的阿杉',say:'我每天帶柴柴和小白出來散步，牠們聽到腳步聲就會跑來門口，尾巴搖不停。',body:`<p>主島有貓店員，森林這邊則是狗狗的地盤。狗狗小屋住著露露照顧的幾隻狗狗，最喜歡在瀑布邊玩水，玩累了就趴在小屋門口曬太陽。</p><p>想看菀玲醫師的店貓，主島的貓咖區有四隻貓店員在等你。</p>`,go:['/island/#cats','line2','到主島貓咖區看貓']},
  water:{k:'補水小站',t:'今天喝水了嗎？',who:'愛堆雪人的莓莓',say:'我每喝一杯水，就幫雪人加一顆鈕扣！',body:`<p>每喝一杯水就點一下水滴，幫自己記一下今天喝了幾杯。</p><div class="drops" id="drops"></div><p class="note" id="dropmsg"></p>`,init:initWater},
- quiz:{k:'樹屋測驗',t:'你的保養習慣像哪一種樹？',who:'愛爬樹的小松',say:'答三題就知道！我自己是松樹型的。',body:'<div id="quiz"></div>',init:initQuiz}
+ quiz:{k:'樹屋測驗',t:'你的保養習慣像哪一種樹？',who:'森林嚮導・小橡',say:'答三題就知道！我自己是松樹型的。',body:'<div id="quiz"></div>',init:initQuiz}
 });
 function initWater(){const key='wh-water-'+new Date().toISOString().slice(0,10);let n=0;try{n=+localStorage.getItem(key)||0}catch(e){}
  const box=document.getElementById('drops'),msg=document.getElementById('dropmsg');
@@ -172,7 +172,7 @@ function openHouse(id){const h=HOUSES[id];document.getElementById('sh-k').textCo
  document.getElementById('sh-b').innerHTML=h.body+`<div class="say"><b>${h.who}</b><span>${h.say}</span></div>`+(h.go?`<a class="go ${h.go[1]}" href="${h.go[0]}" ${ext?'target="_blank" rel="noopener"':''} data-go="${id}">${h.go[2]}</a>`:'')+(soc?`<p class="done">${done?'已經拿到這間小屋的徽章了 ✓':'點按鈕前往，就能拿到這間小屋的森林徽章'}</p>`:'');
  sheet.hidden=sbg.hidden=false;try{gtag('event','island_forest_house',{house:id})}catch(e){}
  const g=sheet.querySelector('[data-go]');if(g&&h.go[1]==='line')g.addEventListener('click',()=>{try{gtag('event','island_line_booking_click',{from:'forest_gate'})}catch(e){}});if(h.init)h.init();
- if(soc)g.addEventListener('click',()=>{setB(id);try{gtag('event','island_forest_social',{platform:id})}catch(e){}sheet.querySelector('.done').textContent='拿到森林徽章了 ✓';if(['ig','fb','blog'].every(k=>getB()[k]))NPC.laoxiang.lines.unshift('三枚徽章都蓋滿了？你比我還熟這座森林了。謝謝你常來玩！')});
+ if(soc)g.addEventListener('click',()=>{setB(id);try{gtag('event','island_forest_social',{platform:id})}catch(e){}sheet.querySelector('.done').textContent='拿到森林徽章了 ✓';if(['ig','fb','blog'].every(k=>getB()[k]))NPC.xiaoxiang.lines.unshift('三枚徽章都蓋滿了？你比我還熟這座森林了。謝謝你常來玩！')});
  if(id==='blog')loadPosts();sheet.querySelector('.sh-x').focus()}
 function closeHouse(){sheet.hidden=sbg.hidden=true}
 document.getElementById('shx').addEventListener('click',closeHouse);sbg.addEventListener('click',closeHouse);addEventListener('keydown',e=>{if(e.key==='Escape')closeHouse()});
@@ -180,7 +180,7 @@ document.querySelectorAll('[data-house]').forEach(b=>b.addEventListener('click',
 let postsCache;async function loadPosts(){const ul=document.getElementById('posts');try{if(!postsCache){const x=new DOMParser().parseFromString(await (await fetch('/rss.xml')).text(),'text/xml');
  postsCache=[...x.querySelectorAll('item')].map(i=>({t:i.querySelector('title')?.textContent||'',l:i.querySelector('link')?.textContent||'#',d:new Date(i.querySelector('pubDate')?.textContent||0)})).sort((a,b)=>b.d-a.d).slice(0,6)}
  ul.innerHTML=postsCache.map(p=>`<li><a href="${p.l}" target="_blank" rel="noopener"><strong>${p.t.replace(/</g,'&lt;')}</strong><small>${isNaN(p.d)?'':p.d.toLocaleDateString('zh-TW')}</small></a></li>`).join('')}catch(e){ul.innerHTML='<li><a href="https://blog.wuhenclinic.tw/blog/" target="_blank" rel="noopener"><strong>到部落格看所有文章</strong></a></li>'}}
-if(getB().ig&&getB().fb&&getB().blog)NPC.laoxiang.lines.unshift('三枚徽章都蓋滿了？你比我還熟這座森林了。謝謝你常來玩！');
+if(getB().ig&&getB().fb&&getB().blog)NPC.xiaoxiang.lines.unshift('三枚徽章都蓋滿了？你比我還熟這座森林了。謝謝你常來玩！');
 
 const BGM={a:null,on:false};
 function setMusic(on){BGM.on=on;if(on){if(!BGM.a){BGM.a=new Audio('forest_bgm.mp3?v=2');BGM.a.loop=true;BGM.a.volume=.55}BGM.a.play().catch(()=>{BGM.on=false;syncMusic()});try{gtag('event','island_forest_music',{on:1})}catch(e){}}else if(BGM.a)BGM.a.pause();syncMusic()}
@@ -189,11 +189,16 @@ window.toggleForestMusic=()=>setMusic(!BGM.on);
 document.getElementById('music').addEventListener('click',()=>setMusic(!BGM.on));
 document.addEventListener('visibilitychange',()=>{if(!BGM.a)return;if(document.hidden)BGM.a.pause();else if(BGM.on)BGM.a.play().catch(()=>{})});
 const sc=document.getElementById('sc'),ctr=()=>{sc.scrollLeft=(sc.scrollWidth-sc.clientWidth)/2};ctr();requestAnimationFrame(ctr);addEventListener('load',ctr);
-/* ---- walking dogs ---- */
-(function(){const NS='http://www.w3.org/2000/svg',svgEl=document.getElementById('dogs');if(!svgEl)return;
+/* ---- walkers: islanders + dogs ---- */
+(function(){const svgEl=document.getElementById('dogs');if(!svgEl)return;
  const K=1.2,P=(a)=>a.map(([x,y])=>[x*K,y*K]);
+ const WALK=[
+  {id:'xiaoxiang',img:'npc_staff.webp',ar:124/320,path:P([[470,805],[560,792],[650,805]]),speed:22},
+  {id:'lulu',img:'npc_nurse.webp',ar:118/320,path:P([[700,772],[800,760],[905,778]]),speed:20},
+  {id:'ashan',img:'npc_coat.webp',ar:145/320,path:P([[700,848],[820,840],[950,822]]),speed:24},
+  {id:'meimei',img:'npc_dress.webp',ar:113/320,path:P([[1020,650],[1085,610],[1150,580]]),speed:16}];
  const DOGS=[
-  {id:'shiba',name:'柴柴',fur:'#E39A52',fur2:'#C97A35',belly:'#FFF3E2',path:P([[665,850],[760,842],[860,834],[965,818]]),speed:40,lines:['汪！（柴柴想找你玩）','汪汪！（尾巴搖不停）','（柴柴躲到陽傘下，牠也知道要防曬）']},
+  {id:'shiba',name:'柴柴',fur:'#E39A52',fur2:'#C97A35',belly:'#FFF3E2',path:P([[700,848],[820,840],[950,822]]),speed:24,follow:'ashan',lag:70,lines:['汪！（柴柴想找你玩）','汪汪！（尾巴搖不停）','（柴柴躲到陽傘下，牠也知道要防曬）']},
   {id:'maru',name:'小白',fur:'#FAF6EE',fur2:'#E1D8C8',belly:'#FFFFFF',path:P([[1135,884],[1185,905],[1240,930]]),speed:26,lines:['汪～（小白在狗狗小屋門口等你）','（小白把球叼過來了）','汪！（今天也要記得喝水喔）']}];
  function dogSVG(d){return `<g class="dog" data-dog="${d.id}" role="button" tabindex="0" aria-label="摸摸${d.name}"><ellipse cx="0" cy="2" rx="30" ry="7" fill="rgba(40,40,30,.22)"/>
   <g class="flip"><g class="bob">
@@ -208,28 +213,39 @@ const sc=document.getElementById('sc'),ctr=()=>{sc.scrollLeft=(sc.scrollWidth-sc
     <ellipse cx="7" cy="3.5" rx="2.6" ry="2" fill="#2B2420"/><path d="M4,7 Q7,10 10,7" fill="none" stroke="#2B2420" stroke-width="1.2" stroke-linecap="round"/>
     <circle cx="-9" cy="5" r="3" fill="#F5A3A3" opacity=".55"/></g>
   </g></g></g>`}
+
+ const H=118;
+ function npcSVG(w){const h=H,wd=h*w.ar;return `<g class="dog walker" data-npc="${w.id}" role="button" tabindex="0" aria-label="和${NPC[w.id].name}說說話"><ellipse cx="0" cy="2" rx="${wd*.42}" ry="7" fill="rgba(40,40,30,.25)"/><g class="flip"><g class="bob"><image href="${w.img}" x="${-wd/2}" y="${-h}" width="${wd}" height="${h}"/></g></g></g>`}
  let defs='<defs>'+DOGS.map(d=>`<radialGradient id="dg-${d.id}" cx=".4" cy=".35" r=".75"><stop offset="0" stop-color="${d.belly}" stop-opacity=".55"/><stop offset=".45" stop-color="${d.fur}"/><stop offset="1" stop-color="${d.fur2}"/></radialGradient>`).join('')+'</defs>';
- svgEl.innerHTML=defs+DOGS.map(dogSVG).join('');
- const st=DOGS.map(d=>{const segs=[];let tot=0;for(let i=0;i<d.path.length-1;i++){const [a,b]=[d.path[i],d.path[i+1]],l=Math.hypot(b[0]-a[0],b[1]-a[1]);segs.push({a,b,l});tot+=l}
-  return {d,el:svgEl.querySelector(`[data-dog="${d.id}"]`),segs,tot,pos:Math.random()*tot,dir:1,pause:0}});
+ svgEl.innerHTML=defs+WALK.map(npcSVG).join('')+DOGS.map(dogSVG).join('');
+ const mk=(d,sel,kind)=>{const segs=[];let tot=0;for(let i=0;i<d.path.length-1;i++){const a=d.path[i],b=d.path[i+1],l=Math.hypot(b[0]-a[0],b[1]-a[1]);segs.push({a,b,l});tot+=l}
+   return {d,kind,el:svgEl.querySelector(sel),segs,tot,pos:Math.random()*tot,dir:Math.random()<.5?1:-1,pause:0,walking:false}};
+ const all=[...WALK.map(w=>mk(w,`[data-npc="${w.id}"]`,'npc')),...DOGS.map(d=>mk(d,`[data-dog="${d.id}"]`,'dog'))];
+ const byId=Object.fromEntries(all.map(s=>[s.d.id,s]));
  const reduce=matchMedia('(prefers-reduced-motion: reduce)').matches;let last=0;
- function at(s,p){for(const g of s.segs){if(p<=g.l)return [g.a[0]+(g.b[0]-g.a[0])*p/g.l,g.a[1]+(g.b[1]-g.a[1])*p/g.l];p-=g.l}const g=s.segs[s.segs.length-1];return g.b}
+ function at(s,p){p=Math.max(0,Math.min(s.tot,p));for(const g of s.segs){if(p<=g.l)return [g.a[0]+(g.b[0]-g.a[0])*p/g.l,g.a[1]+(g.b[1]-g.a[1])*p/g.l];p-=g.l}return s.segs[s.segs.length-1].b}
  function frame(t){const dt=Math.min(60,t-(last||t))/1000;last=t;
-  st.forEach(s=>{let walking=false;if(s.pause>0)s.pause-=dt;else if(!reduce){s.pos+=s.dir*s.d.speed*dt;walking=true;if(s.pos>=s.tot||s.pos<=0){s.pos=Math.max(0,Math.min(s.tot,s.pos));s.dir*=-1;s.pause=1.2+Math.random()*2}
-    else if(Math.random()<dt*.08)s.pause=1+Math.random()*1.8}
-   const [x,y]=at(s,s.pos),sc=1.0+(y/1626)*.2;s.el.setAttribute('transform',`translate(${x.toFixed(1)},${y.toFixed(1)}) scale(${sc.toFixed(3)})`);
+  all.forEach(s=>{const lead=s.d.follow&&byId[s.d.follow];
+   if(lead){const prev=s.pos;s.pos=Math.max(0,Math.min(s.tot,lead.pos-lead.dir*s.d.lag));s.walking=Math.abs(s.pos-prev)>.01;if(s.walking)s.dir=s.pos>prev?1:-1;}
+   else{s.walking=false;if(s.pause>0)s.pause-=dt;else if(!reduce){s.pos+=s.dir*s.d.speed*dt;s.walking=true;if(s.pos>=s.tot||s.pos<=0){s.pos=Math.max(0,Math.min(s.tot,s.pos));s.dir*=-1;s.pause=1.5+Math.random()*2.5}else if(Math.random()<dt*.06)s.pause=1+Math.random()*2}}
+   const [x,y]=at(s,s.pos),sc=(s.kind==='dog'?1.0:.95)+(y/1626)*.2;s.y=y;
+   s.el.setAttribute('transform',`translate(${x.toFixed(1)},${y.toFixed(1)}) scale(${sc.toFixed(3)})`);
    s.el.querySelector('.flip').setAttribute('transform',s.dir<0?'scale(-1,1)':'');
-   const ph=t/110,sw=walking?Math.sin(ph)*16:0;
-   s.el.querySelectorAll('.leg').forEach((l,i)=>{const bx=+l.getAttribute('x')+4,a=(i%2?sw:-sw);l.setAttribute('transform',`rotate(${a.toFixed(1)} ${bx} -14)`)});
-   s.el.querySelector('.bob').setAttribute('transform',`translate(0,${walking?(-Math.abs(Math.sin(ph))*2.5).toFixed(2):0})`);
-   s.el.querySelector('.tail').setAttribute('transform',`rotate(${(Math.sin(t/(walking?140:90))*14).toFixed(1)} -20 -34)`)});
+   const ph=t/(s.kind==='dog'?110:170),bob=s.walking?-Math.abs(Math.sin(ph))*(s.kind==='dog'?2.5:4):0;
+   if(s.kind==='npc'){s.el.querySelector('.bob').setAttribute('transform',`translate(0,${bob.toFixed(2)}) rotate(${s.walking?(Math.sin(ph)*3).toFixed(2):0} 0 0)`)}
+   else{const sw=s.walking?Math.sin(ph)*16:0;s.el.querySelectorAll('.leg').forEach((l,i)=>{const bx=+l.getAttribute('x')+4,a=(i%2?sw:-sw);l.setAttribute('transform',`rotate(${a.toFixed(1)} ${bx} -14)`)});
+    s.el.querySelector('.bob').setAttribute('transform',`translate(0,${bob.toFixed(2)})`);s.el.querySelector('.tail').setAttribute('transform',`rotate(${(Math.sin(t/(s.walking?140:90))*14).toFixed(1)} -20 -34)`)}});
+  const order=[...all].sort((a,b)=>a.y-b.y);let need=false;order.forEach((s,i)=>{if(svgEl.children[i+1]!==s.el)need=true});if(need)order.forEach(s=>svgEl.appendChild(s.el));
   requestAnimationFrame(frame)}
  requestAnimationFrame(frame);
- const idx={};st.forEach(s=>s.el.addEventListener('click',e=>{e.stopPropagation();const d=s.d;idx[d.id]=((idx[d.id]??-1)+1)%d.lines.length;s.pause=3;
-  document.getElementById('bub-n').textContent=d.name;document.getElementById('bub-t').textContent=d.lines[idx[d.id]];
+ const idx={};
+ function talk(s,name,lines){const k=s.d.id;idx[k]=((idx[k]??-1)+1)%lines.length;s.pause=4;
+  document.getElementById('bub-n').textContent=name;document.getElementById('bub-t').textContent=lines[idx[k]];
   const r=s.el.getBoundingClientRect(),stg=s.el.closest('.stage').getBoundingClientRect(),vr=sc.getBoundingClientRect();bub.hidden=false;
   const w=bub.offsetWidth,cx=r.left+r.width/2-stg.left,lo=vr.left-stg.left+8+w/2,hi=vr.right-stg.left-8-w/2,x=Math.max(lo,Math.min(hi,cx));
-  bub.style.left=x+'px';bub.style.top=(r.top-stg.top-6)+'px';bub.style.setProperty('--ax',(w/2+cx-x)+'px');clearTimeout(bt);bt=setTimeout(()=>bub.hidden=true,5000);
-  try{gtag('event','island_forest_dog',{dog:d.id})}catch(_){}}))})();
+  bub.style.left=x+'px';bub.style.top=(r.top-stg.top-6)+'px';bub.style.setProperty('--ax',(w/2+cx-x)+'px');clearTimeout(bt);bt=setTimeout(()=>bub.hidden=true,5500)}
+ all.forEach(s=>s.el.addEventListener('click',e=>{e.stopPropagation();
+  if(s.kind==='npc'){const n=NPC[s.d.id];talk(s,n.name,n.lines);try{gtag('event','island_forest_npc',{npc:s.d.id})}catch(_){}}
+  else{talk(s,s.d.name,s.d.lines);const lead=s.d.follow&&byId[s.d.follow];if(lead)lead.pause=4;try{gtag('event','island_forest_dog',{dog:s.d.id})}catch(_){}}}))})();
 
 </script><script src="game.js?v=6" defer></script></body></html>
